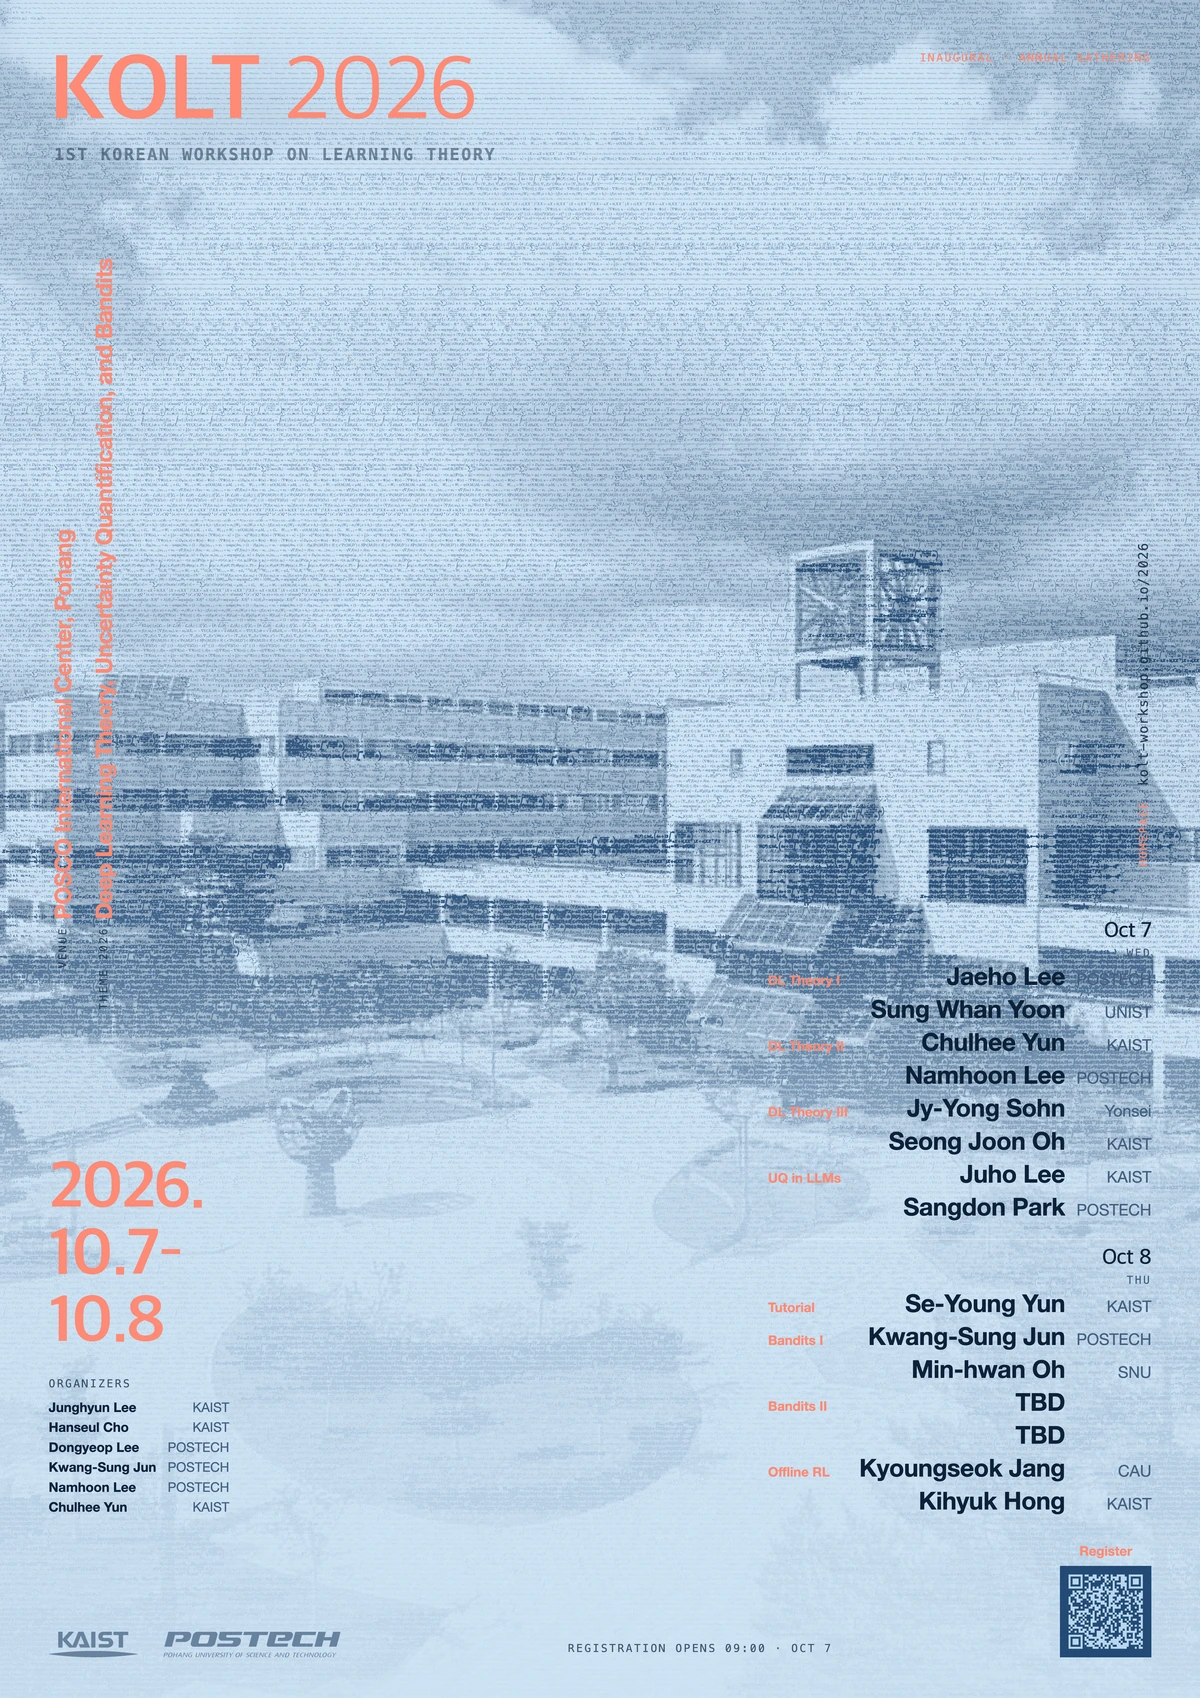
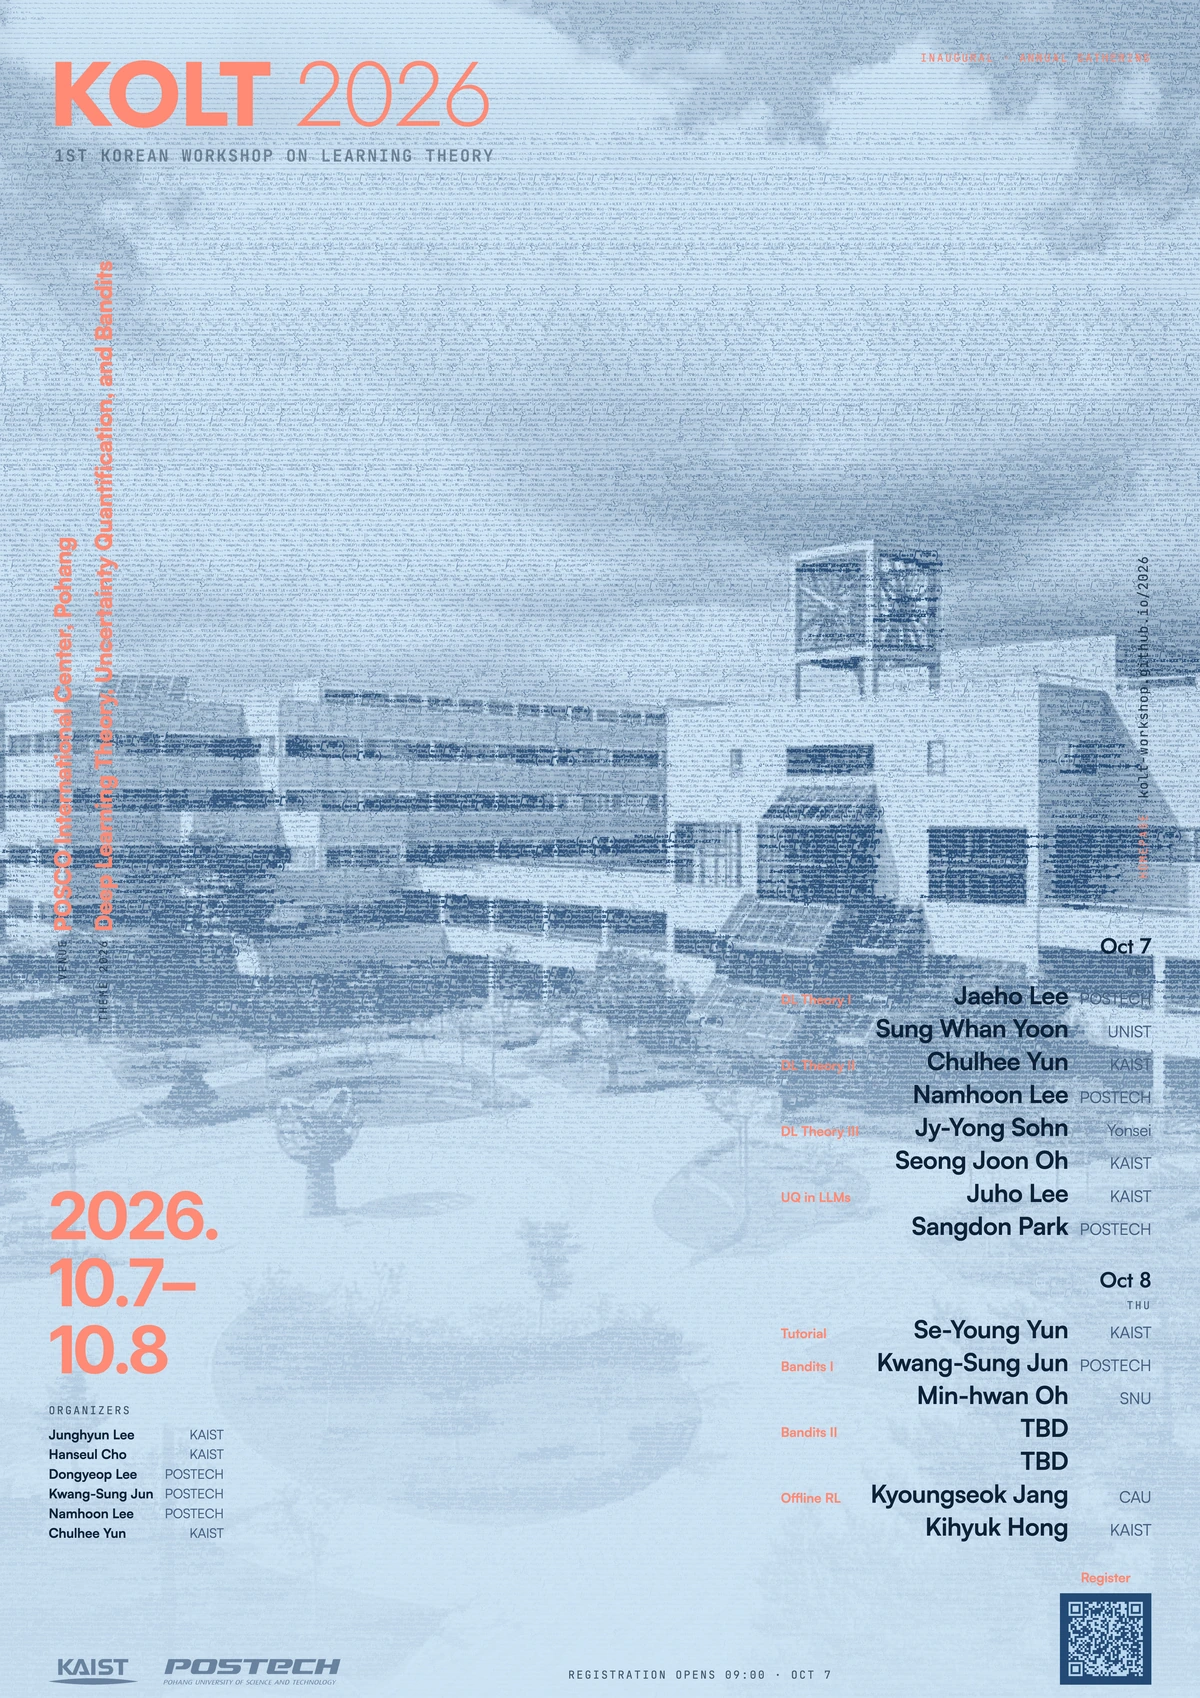
Serve the poster its own fonts, and refuse to export without them
The sheet asks for its faces by relative path, so they have to sit beside it.
The old export happened to run in a directory that had a fonts/ in it; the new
script made a clean one and did not. Every webfont 404'd, Chrome substituted
system type without complaint, and the last two exports went out set in the
wrong faces — which is exactly the failure the script was written to stop, so
it now guards against it twice: every non-data url() in the page must exist
beside it before Chrome is started, and the rendered page must report Satoshi,
JetBrains Mono, Jost and Inter Tight as loaded before anything is written.

The light hero goes another 20% toward white, with the photograph under it at
0.46. Mean tone across the drawing is rgb(206,222,240) and the darkest marks
rgb(128,146,179).

diff --git a/templates/style.css b/templates/style.css
@@ -3464,8 +3464,8 @@ a.poster-shot:focus-visible {
    explicit choice, and the system default when nothing has been chosen. */
 @media (prefers-color-scheme: light) {
   :root:not([data-theme="dark"]) {
-    --hero-bg: #d4e8fa;
-    --hero-bg2: #c0daf4;
+    --hero-bg: #ddedfb;
+    --hero-bg2: #cde1f6;
     --hero-title: #0d2137;
     --hero-body: #26405c;
     /* Darkened from #456080 so the foot of the hero can be. The small
@@ -3483,7 +3483,7 @@ a.poster-shot:focus-visible {
     --logo-plate: rgba(255, 255, 255, 0.78);
     --logo-plate: rgba(255, 255, 255, 0.78);
   --hero-photo: url("hero-paper.jpg");
-    --hero-photo-opacity: 0.54;
+    --hero-photo-opacity: 0.46;
     --hero-art-image: url("hero-paper-ink.jpg");
     /* The density is the original contrast; what changed is the floor
        under it. brightness() alone lifts the whole range and takes the
@@ -3505,17 +3505,17 @@ a.poster-shot:focus-visible {
        spend contrast on, and the wash is the only thing buying it. */
     --hero-scrim-narrow: linear-gradient(
         to bottom,
-        rgba(237, 246, 253, 0.84) 0%,
-        rgba(229, 241, 251, 0.86) 26%,
-        rgba(214, 232, 246, 0.88) 52%,
-        rgba(200, 221, 240, 0.9) 100%
+        rgba(241, 248, 253, 0.84) 0%,
+        rgba(234, 244, 252, 0.86) 26%,
+        rgba(222, 237, 248, 0.88) 52%,
+        rgba(211, 228, 243, 0.9) 100%
       );
     --hero-scrim-narrow-art: linear-gradient(
         to bottom,
-        rgba(237, 246, 253, 0.86) 0%,
-        rgba(229, 241, 251, 0.88) 26%,
-        rgba(214, 232, 246, 0.9) 52%,
-        rgba(200, 221, 240, 0.92) 100%
+        rgba(241, 248, 253, 0.86) 0%,
+        rgba(234, 244, 252, 0.88) 26%,
+        rgba(222, 237, 248, 0.9) 52%,
+        rgba(211, 228, 243, 0.92) 100%
       );
     --hero-art-opacity-narrow: 0.32;
     --hero-art-filter-narrow: contrast(1.15) brightness(1.02) url(#ink-floor);
@@ -3524,23 +3524,23 @@ a.poster-shot:focus-visible {
        writing *is* the dark thing, and a heavy scrim rubs it out. */
     --hero-scrim: linear-gradient(
         to right,
-        rgba(218, 234, 247, 0.62) 0%,
-        rgba(218, 234, 247, 0.34) 30%,
-        rgba(218, 234, 247, 0.08) 48%,
+        rgba(225, 238, 249, 0.62) 0%,
+        rgba(225, 238, 249, 0.34) 30%,
+        rgba(225, 238, 249, 0.08) 48%,
         transparent 62%
       ),
       linear-gradient(
         to bottom,
-        rgba(218, 234, 247, 0.06) 0%,
-        rgba(204, 223, 240, 0.24) 40%,
-        rgba(175, 201, 227, 0.56) 66%,
-        rgba(154, 186, 216, 0.74) 100%
+        rgba(225, 238, 249, 0.06) 0%,
+        rgba(214, 229, 243, 0.24) 40%,
+        rgba(191, 212, 233, 0.56) 66%,
+        rgba(174, 200, 224, 0.74) 100%
       );
   }
 }
 :root[data-theme="light"] {
-  --hero-bg: #d4e8fa;
-  --hero-bg2: #c0daf4;
+  --hero-bg: #ddedfb;
+  --hero-bg2: #cde1f6;
   --hero-title: #0d2137;
   --hero-body: #26405c;
   /* Darkened from #456080 so the foot of the hero can be. The small
@@ -3557,7 +3557,7 @@ a.poster-shot:focus-visible {
   --hero-art-ink: #16324f;
   --logo-plate: rgba(255, 255, 255, 0.78);
   --hero-photo: url("hero-paper.jpg");
-  --hero-photo-opacity: 0.54;
+  --hero-photo-opacity: 0.46;
   --hero-art-image: url("hero-paper-ink.jpg");
   /* The density is the original contrast; what changed is the floor
        under it. brightness() alone lifts the whole range and takes the
@@ -3575,32 +3575,32 @@ a.poster-shot:focus-visible {
   --hero-pill-bg: rgba(240, 247, 253, 0.72);
   --hero-scrim-narrow: linear-gradient(
       to bottom,
-      rgba(237, 246, 253, 0.84) 0%,
-      rgba(229, 241, 251, 0.86) 26%,
-      rgba(214, 232, 246, 0.88) 52%,
-      rgba(200, 221, 240, 0.9) 100%
+      rgba(241, 248, 253, 0.84) 0%,
+      rgba(234, 244, 252, 0.86) 26%,
+      rgba(222, 237, 248, 0.88) 52%,
+      rgba(211, 228, 243, 0.9) 100%
     );
   --hero-scrim-narrow-art: linear-gradient(
       to bottom,
-      rgba(237, 246, 253, 0.86) 0%,
-      rgba(229, 241, 251, 0.88) 26%,
-      rgba(214, 232, 246, 0.9) 52%,
-      rgba(200, 221, 240, 0.92) 100%
+      rgba(241, 248, 253, 0.86) 0%,
+      rgba(234, 244, 252, 0.88) 26%,
+      rgba(222, 237, 248, 0.9) 52%,
+      rgba(211, 228, 243, 0.92) 100%
     );
   --hero-art-opacity-narrow: 0.32;
   --hero-art-filter-narrow: contrast(1.15) brightness(1.02) url(#ink-floor);
   --hero-scrim: linear-gradient(
       to right,
-      rgba(218, 234, 247, 0.62) 0%,
-      rgba(218, 234, 247, 0.34) 30%,
-      rgba(218, 234, 247, 0.08) 48%,
+      rgba(225, 238, 249, 0.62) 0%,
+      rgba(225, 238, 249, 0.34) 30%,
+      rgba(225, 238, 249, 0.08) 48%,
       transparent 62%
     ),
     linear-gradient(
       to bottom,
-      rgba(218, 234, 247, 0.06) 0%,
-      rgba(204, 223, 240, 0.24) 40%,
-      rgba(175, 201, 227, 0.56) 66%,
-      rgba(154, 186, 216, 0.74) 100%
+      rgba(225, 238, 249, 0.06) 0%,
+      rgba(214, 229, 243, 0.24) 40%,
+      rgba(191, 212, 233, 0.56) 66%,
+      rgba(174, 200, 224, 0.74) 100%
     );
 }

diff --git a/tools/export-poster.py b/tools/export-poster.py
@@ -30,11 +30,27 @@ Needs Chrome and Pillow. Local tool only — the site build does not run this.
 """
 
 import argparse
+import re
 import shutil
 import subprocess
 import sys
 import time
 from pathlib import Path
+
+# What the sheet must be set in. Checked on the rendered page rather than taken
+# on trust: a face that fails to load is not an error, it is a substitution,
+# and a substitution looks like a poster right up until someone reads it.
+FACES = ("Satoshi", "JetBrains Mono", "Jost", "Inter Tight")
+
+FONT_PROBE = """<script>
+document.fonts.ready.then(() => {
+  const got = new Set([...document.fonts].filter(f => f.status === 'loaded')
+                                         .map(f => f.family));
+  const p = document.createElement('pre');
+  p.id = '__fonts'; p.textContent = [...got].join('|');
+  document.body.appendChild(p);
+});
+</script>"""
 
 CHROME = "/Applications/Google Chrome.app/Contents/MacOS/Google Chrome"
 ROOT = Path(__file__).resolve().parent.parent
@@ -84,11 +100,23 @@ def main():
     out = Path(args.out)
     sheets = [s for s in SHEETS if not args.only or s[0] == args.only]
 
+    # The sheet asks for its faces by relative path, so they have to sit beside
+    # it. A missing fonts/ is not an error anyone sees: Chrome falls back to a
+    # system face, the export succeeds, and the poster is simply set in the
+    # wrong type. It happened, so the files are copied and then checked.
+    shutil.copytree(ROOT / "static/fonts", work / "fonts", dirs_exist_ok=True)
+
     for name, art, extra in sheets:
         print(f"  {name}")
         run(sys.executable, ROOT / "tools/poster.py", "--art", ROOT / art,
             *[str(ROOT / e) if e.startswith("art/") else e for e in extra],
             "--layout", "festival", "-o", work / f"{name}.html", cwd=ROOT)
+        page = (work / f"{name}.html").read_text(encoding="utf-8")
+        missing = sorted({u for u in re.findall(r'url\("((?!data:)[^"]+)"\)', page)
+                          if not (work / u).exists()})
+        if missing:
+            sys.exit(f"  {name} asks for files that are not beside it:\n    "
+                     + "\n    ".join(missing))
 
     # Two servers on the same directory. Chrome is told which port to use;
     # poster-svg.py has 8997 written into it and reaches for the page itself.
@@ -106,6 +134,19 @@ def main():
             folder = out / folder
             folder.mkdir(parents=True, exist_ok=True)
             url = f"http://localhost:{args.port}/{name}.html"
+
+            probe = work / f"{name}--fonts.html"
+            probe.write_text((work / f"{name}.html").read_text(encoding="utf-8")
+                             + FONT_PROBE, encoding="utf-8")
+            dom = run(CHROME, "--headless=new", "--disable-gpu",
+                      "--window-size=1610,2268", "--virtual-time-budget=40000",
+                      "--dump-dom", f"http://localhost:{args.port}/{probe.name}")
+            probe.unlink()
+            m = re.search(r'<pre id="__fonts">(.*?)</pre>', dom, re.S)
+            loaded = set(m.group(1).split("|")) if m else set()
+            if not set(FACES) <= loaded:
+                sys.exit(f"  {name} fell back to system type — did not load: "
+                         + ", ".join(sorted(set(FACES) - loaded)))
 
             run(CHROME, "--headless=new", "--disable-gpu", "--no-pdf-header-footer",
                 f"--print-to-pdf={folder / (stem + '.pdf')}",
